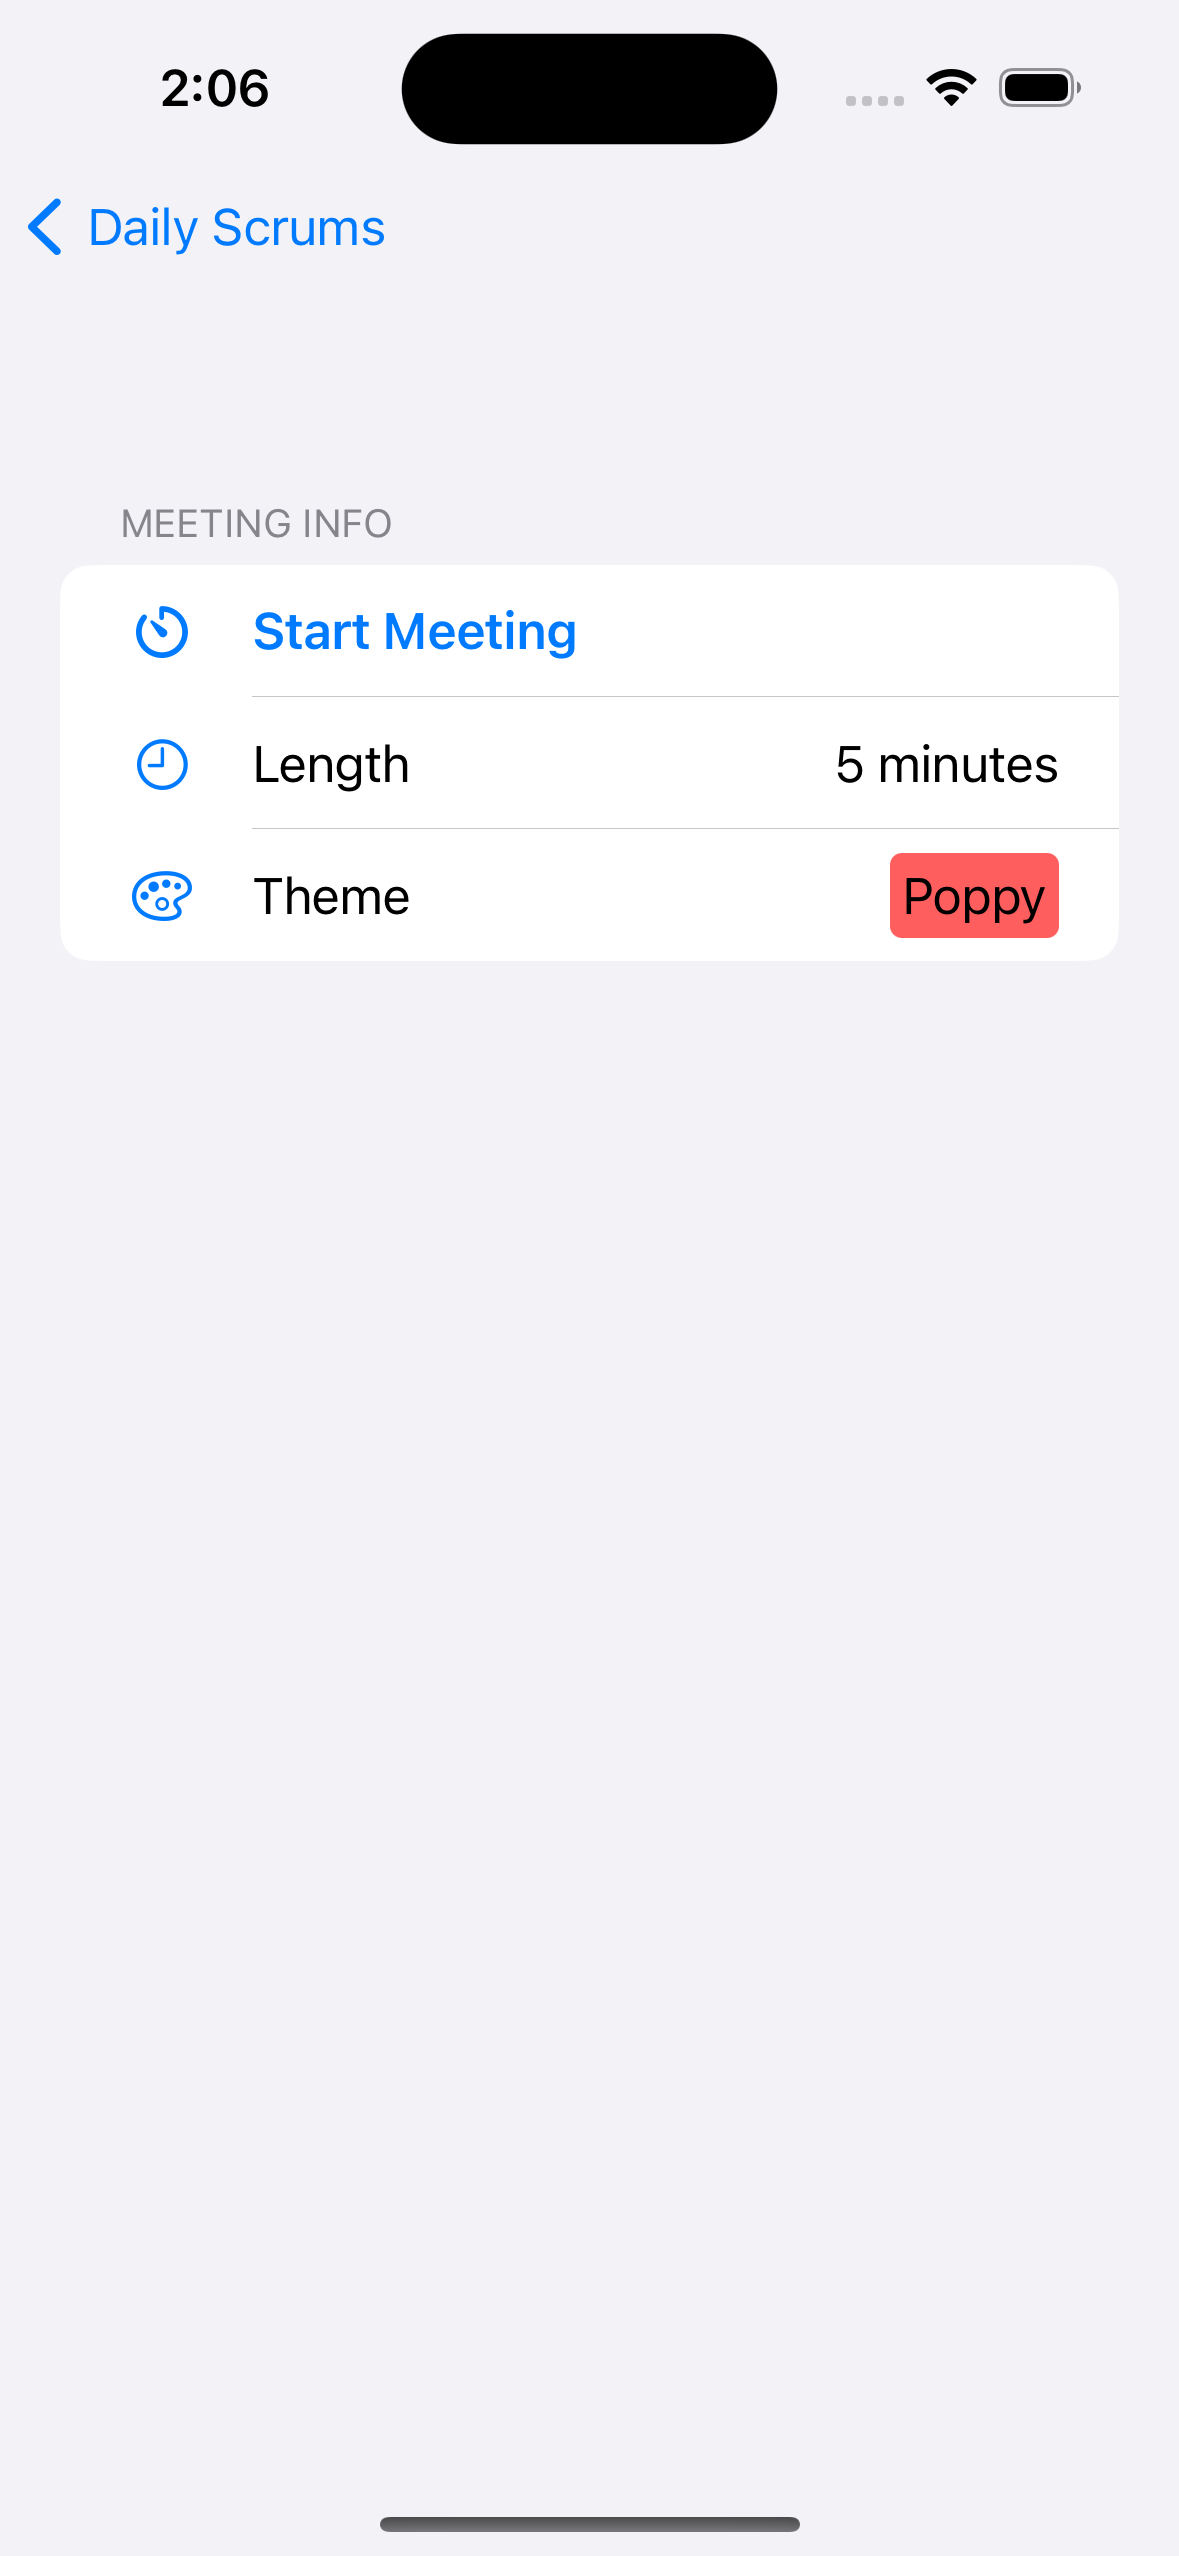
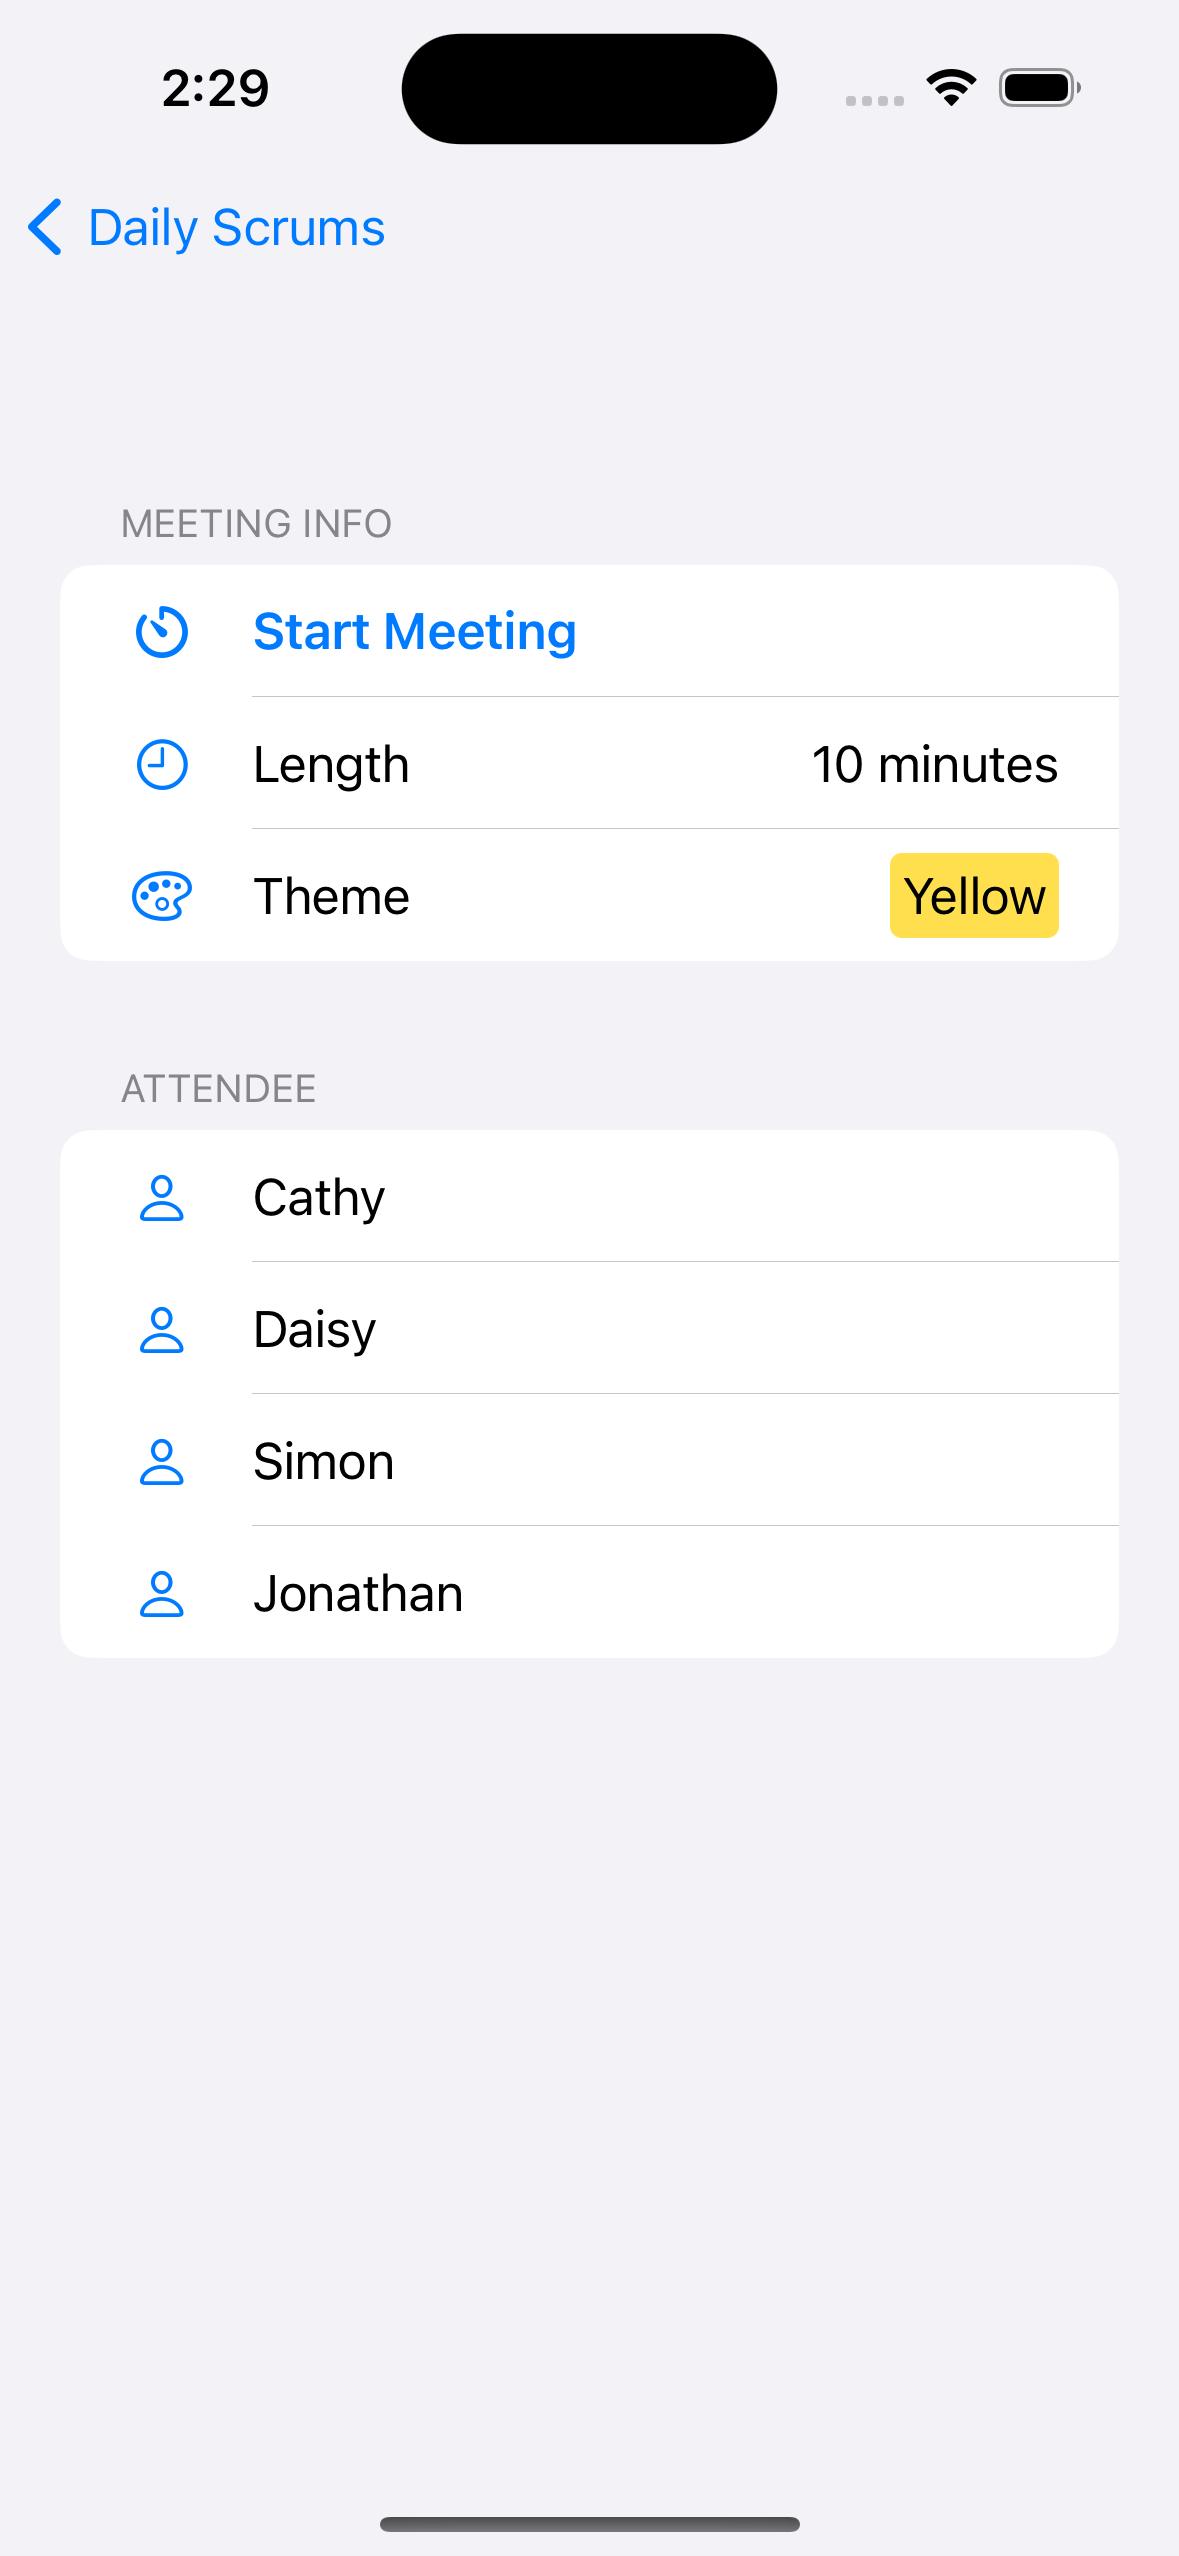
Iterate through attendees
Add attendees list to the details screen.

Steps:
- Extend DailyScrum with an inner structure named Attendee that is identifiable (follows the `Identifiable` protocol).
- Iterate through each attendee and add a label for them in a new section in DetailView.

diff --git a/Scrumdinger/Models/DailyScrum.swift b/Scrumdinger/Models/DailyScrum.swift
@@ -10,16 +10,28 @@ import Foundation
 struct DailyScrum: Identifiable {
     let id: UUID
     var title: String
-    var attendees: [String]
+    var attendees: [Attendee]
     var lengthInMinutes: Int
     var theme: Theme
     
     init(id: UUID = UUID(), title: String, attendees: [String], lengthInMinutes: Int, theme: Theme) {
         self.id = id
         self.title = title
-        self.attendees = attendees
+        self.attendees = attendees.map{ Attendee(name: $0) }
         self.lengthInMinutes = lengthInMinutes
         self.theme = theme
+    }
+}
+
+extension DailyScrum {
+    struct Attendee: Identifiable {
+        let id: UUID
+        var name: String
+        
+        init(id: UUID = UUID(), name: String) {
+            self.id = id
+            self.name = name
+        }
     }
 }
 

diff --git a/Scrumdinger/DetailView.swift b/Scrumdinger/DetailView.swift
@@ -33,6 +33,11 @@ struct DetailView: View {
                 }
                 .accessibilityElement(children: .combine)
             }
+            Section(header: Text("Attendee")){
+                ForEach(scrum.attendees) {attendee in
+                    Label(attendee.name, systemImage: "person")
+                }
+            }
         }
     }
 }
